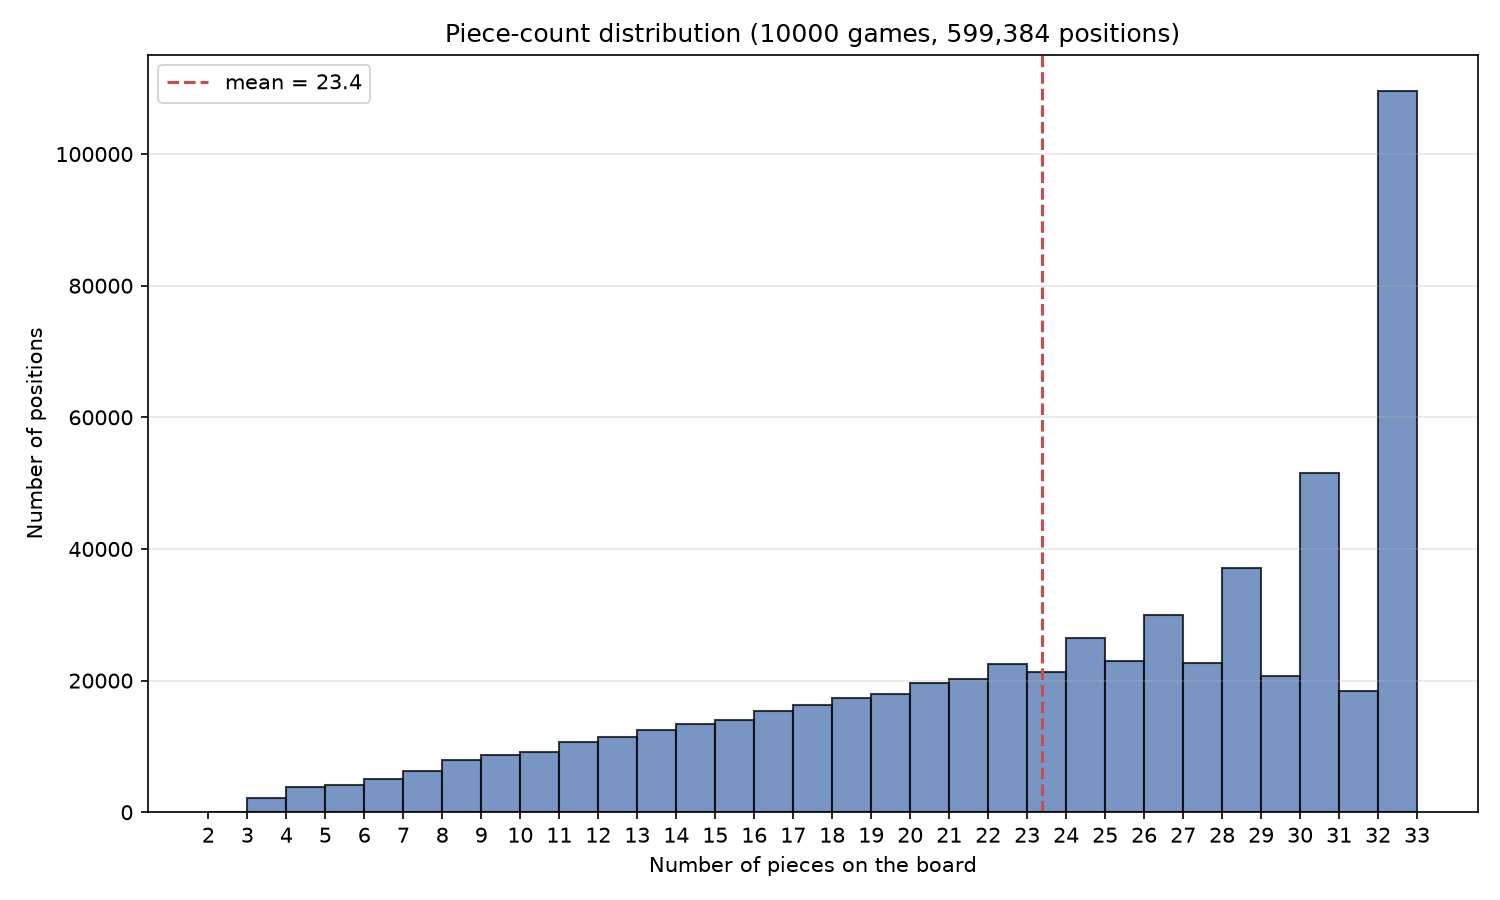
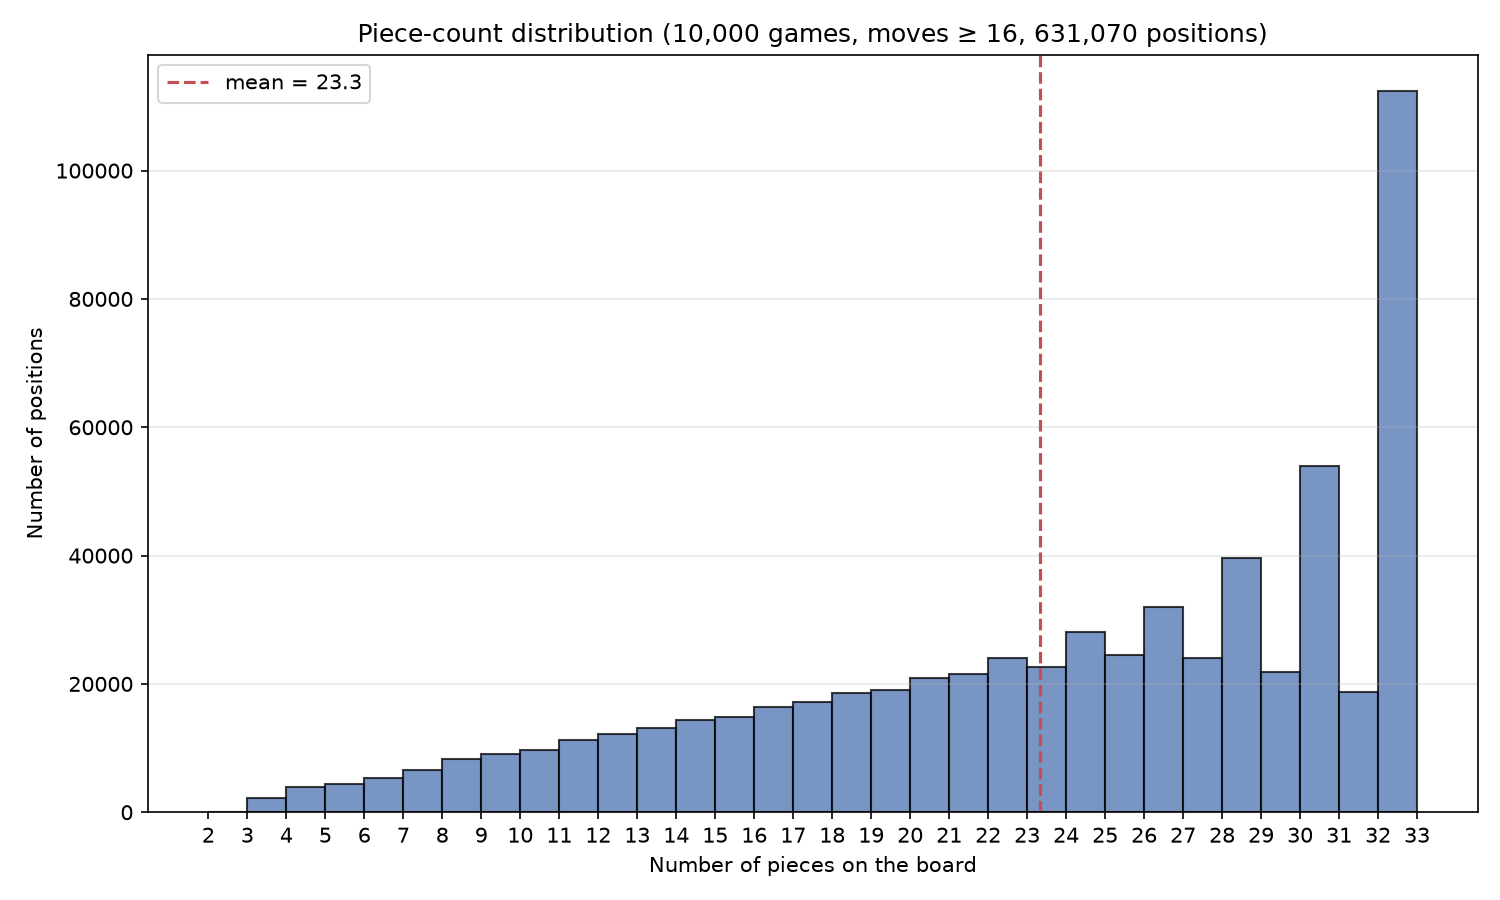
30/6 update

diff --git a/scripts/plot_piece_count_distribution.py b/scripts/plot_piece_count_distribution.py
@@ -11,40 +11,59 @@ import pandas as pd
 from tinymlinternship.config.settings import LICHESS_CSV, PROJECT_ROOT
 
 
-def collect_piece_counts(csv_path: Path, max_games: int) -> list[int]:
+def collect_piece_counts(
+    csv_path: Path,
+    max_games: int,
+    min_moves: int = 0,
+) -> tuple[list[int], int]:
     counts: list[int] = []
+    games_used = 0
 
     with csv_path.open(newline="", encoding="utf-8") as f:
         reader = csv.DictReader(f)
-        for i, row in enumerate(reader):
-            if i >= max_games:
+        for row in reader:
+            if games_used >= max_games:
                 break
 
             moves_str = row.get("moves", "").strip()
             if not moves_str:
                 continue
 
+            move_list = moves_str.split()
+            if len(move_list) < min_moves:
+                continue
+
             board = chess.Board()
             counts.append(len(board.piece_map()))
 
-            for san in moves_str.split():
+            for san in move_list:
                 try:
                     board.push_san(san)
                 except (chess.InvalidMoveError, chess.IllegalMoveError, ValueError):
                     break
                 counts.append(len(board.piece_map()))
 
-    return counts
+            games_used += 1
+
+    return counts, games_used
 
 
-def plot_distribution(counts: list[int], output_path: Path, max_games: int) -> None:
+def plot_distribution(
+    counts: list[int],
+    output_path: Path,
+    games_used: int,
+    min_moves: int,
+) -> None:
     fig, ax = plt.subplots(figsize=(10, 6))
 
     bins = range(min(counts), max(counts) + 2)
     ax.hist(counts, bins=bins, edgecolor="black", alpha=0.75, color="#4C72B0")
     ax.set_xlabel("Number of pieces on the board")
     ax.set_ylabel("Number of positions")
-    ax.set_title(f"Piece-count distribution ({max_games} games, {len(counts):,} positions)")
+    filter_note = f", moves ≥ {min_moves}" if min_moves else ""
+    ax.set_title(
+        f"Piece-count distribution ({games_used:,} games{filter_note}, {len(counts):,} positions)"
+    )
     ax.set_xticks(list(bins))
     ax.grid(axis="y", alpha=0.3)
 
@@ -72,27 +91,38 @@ def main() -> None:
     parser = argparse.ArgumentParser(description=__doc__)
     parser.add_argument("--max-games", type=int, default=1000)
     parser.add_argument(
+        "--min-moves",
+        type=int,
+        default=0,
+        help="Skip games with fewer than this many moves (plies in the moves column).",
+    )
+    parser.add_argument(
         "--output",
         type=Path,
-        default=PROJECT_ROOT / "piece_count_distribution.png",
+        default=PROJECT_ROOT / "plots" / "piece_count_distribution.png",
     )
     parser.add_argument(
         "--excel-output",
         type=Path,
-        default=PROJECT_ROOT / "piece_count_distribution.xlsx",
+        default=PROJECT_ROOT / "excel" / "piece_count_distribution.xlsx",
     )
     args = parser.parse_args()
 
     if not LICHESS_CSV.exists():
         raise FileNotFoundError(f"Dataset not found: {LICHESS_CSV}. Run scripts/download_data.py first.")
 
-    counts = collect_piece_counts(LICHESS_CSV, args.max_games)
+    counts, games_used = collect_piece_counts(
+        LICHESS_CSV, args.max_games, min_moves=args.min_moves
+    )
     if not counts:
-        raise RuntimeError("No positions collected — check the dataset format.")
+        raise RuntimeError("No positions collected — check the dataset format or min-moves filter.")
 
-    plot_distribution(counts, args.output, args.max_games)
+    args.output.parent.mkdir(parents=True, exist_ok=True)
+    args.excel_output.parent.mkdir(parents=True, exist_ok=True)
+
+    plot_distribution(counts, args.output, games_used, args.min_moves)
     export_to_excel(counts, args.excel_output)
-    print(f"Collected {len(counts):,} positions from {args.max_games} games")
+    print(f"Collected {len(counts):,} positions from {games_used:,} games (min_moves={args.min_moves})")
     print(f"Piece count range: {min(counts)} – {max(counts)}")
     print(f"Saved plot to: {args.output}")
     print(f"Saved Excel to: {args.excel_output}")

diff --git a/2026-06-30.md b/2026-06-30.md
@@ -1,0 +1,83 @@
+# 2026-06-30
+
+## The Plan for Today
+
+**Focus:** Finalize the SARDINE engine blueprint — lock component choices, answer open design questions, and document the full architecture for the Wio Terminal chess bot.
+
+1. **Compile Decision Log** — Select one option per component in [NOTES/SARDINE design options.md](NOTES/SARDINE%20design%20options.md).
+2. **Resolve design questions** — Target Elo, time budget, MCTS feasibility, dual-head vs separate nets.
+3. **Validate coherence** — Cross-check choices against Wio constraints ([Performance.md](NOTES/Performance.md)) and FIDE Challenge lessons.
+4. **Brand & document** — Add SARDINE logo; keep blueprint as single source of truth for implementation.
+
+---
+
+## Execution Log
+
+### SARDINE blueprint locked
+
+Full spec: [NOTES/SARDINE 🐟.md](NOTES/SARDINE%20🐟.md) · [design options](NOTES/SARDINE%20design%20options.md)
+
+**SARDINE** = *Small Artificial RAM-restricted Deep Intelligent Neural Engine* — modular chess engine for Wio Terminal, maximizing Elo per byte under 192 KB RAM / ~508 KB flash.
+
+#### Locked component choices
+
+| Layer | Choice | Summary |
+|-------|--------|---------|
+| Runtime | **R-A** | Pure C engine core (Cfish-style); minimal C++ only for TFT/Serial if needed |
+| Features | **F-B** | Pruned 704 inputs (impossible pawn ranks + mirrored king coords) |
+| Evaluation | **E-E (E-C)** | Bucketed micro NNUE `768→16→1`, 8 output weight sets |
+| Buckets | **B-C** | Balanced piece-count buckets (equalized training mass per bucket) |
+| Policy v1 | **P-A** | Search-only; upgrade to **P-B** (history heuristics) later |
+| Updates | **U-B → U-C** | Incremental add/sub accumulators; lazy updates when TT is live |
+| Geometry | **K-A, K-B, K-C** | King mirroring + zero impossible weights + magnitude pruning |
+| Quantization | **Q-A** | int8 weights, int16 accumulators, CReLU |
+| Search | **S-B → S-C → S-D** | Quiescence → LMR+NMP → iterative deepening |
+| Flash | **M-F2** | ~10% flash for weights; rest for search code + tables |
+| RAM | **M-R1** | TT-dominant (128–160 KB) |
+| Move order | **O-A → O-B** | MVV-LVA first; killer moves when depth > 4 |
+| Training data | **D-B + D-D** | Lc0 games + bucket-stratified resampling |
+| Training pipe | **T-B + T-D** | nnue-pytorch + SPSA post-hoc tuning |
+| I/O | **I-B** | TFT + Serial; hardcoded FEN for now |
+
+#### Design targets (Details)
+
+| Parameter | Target |
+|-----------|--------|
+| Elo | **≥ 2000** (FIDE Kaggle bots ~2500 Elo at 5 MiB RAM) |
+| Move time | Best move within **~1 s** (no hard time cap) |
+| MCTS | Feasible (1–50 ms/eval on device); **deferred to v2** — v1 uses alpha-beta |
+| Net architecture | **Separate nets** — NNUE for eval + distinct net for search guidance later |
+
+#### Architecture flow
+
+```
+FEN → F-B encoder → NNUE accumulators (U-B) → E-E eval (B-C bucket)
+                         ↑
+              alpha-beta search (S-B→C→D) ← TT (M-R1) ← move order (O-A)
+                         ↓
+                    best move → I-B (TFT/Serial)
+```
+
+#### Custom hybrid (vs presets)
+
+Closest preset: **Sardine FIDE** / **Sardine NNUE**, but custom mix:
+- FIDE-style memory (**M-R1**) + micro bucketed NNUE (**E-E**) + v1 search ladder (**P-A**, **S-B**)
+- Pure **R-A** C core (not M-R2 eval-dominant RAM split)
+
+#### Still open
+
+- [ ] Port to C (**R-A**) before or after first playable search in C++?
+
+#### Supporting work today
+
+- Piece-count distribution analysis (`piece_count_distribution.xlsx`, `_10k.xlsx`) informed **B-C** bucket design
+- Decision log reviewed and corrected for internal consistency (E-E vs E-F, Q-A vs Q-D, phased search)
+
+#### Next implementation steps (from SARDINE §15)
+
+1. Feature encoder **F-B** on PC + device parity
+2. Train bucketed micro NNUE (**T-B**, **D-B + D-D**) → int8 export
+3. Incremental accumulators (**U-B**) on device
+4. Search skeleton **S-B** on PC, port to C
+5. TT + **S-C**/**S-D**; SPSA tuning (**T-D**)
+6. Elo gate vs ≥2000 baseline

diff --git a/NOTES/SARDINE 🐟.md b/NOTES/SARDINE 🐟.md
@@ -6,7 +6,7 @@ Small Artificial RAM-restricted Deep Intelligent Neural Engine
 
 ![SARDINE logo](../images/SARDINE-logo-dark-small.png)
 
-Chess engine for the **Wio Terminal** — neural evaluation + alpha-beta search, maximizing **Elo per byte** under 192 KB RAM / ~508 KB flash.
+Chess engine for the **Wio Terminal** — neural evaluation + alpha-beta search, maximizing **Elo per byte** under 192 KB RAM / ~500 KB flash.
 
 *Locked 2026-06-30. Full option catalogue: [SARDINE design options.md](SARDINE%20design%20options.md).*
 
@@ -51,34 +51,54 @@ FEN → pruned 704 features → NNUE accumulators → bucketed eval (8 piece-cou
 
 Pure **C** engine core (Cfish-style). Minimal C++ only for TFT/Serial if the Arduino toolchain requires it.
 
+---
+
 ### Input features — F-B
 
 **Pruned 704** features: zero impossible pawn ranks + mirrored king coordinates. HalfKP deferred.
 
+---
+
 ### Evaluation — E-E (E-C)
 
 **Bucketed micro NNUE:** `768 → 16 → 1`, dual-perspective, **8 output weight sets** selected by piece-count bucket.
+
+---
 
 ### Output buckets — B-C
 
 Balanced training buckets (equalized position mass per bucket):
 
 | Bucket | Piece count |
-|--------|-------------|
-| 0 | 2–12 |
-| 1 | 13–17 |
-| 2 | 18–21 |
-| 3 | 22–24 |
-| 4 | 25–27 |
-| 5 | 28–29 |
-| 6 | 30–31 |
-| 7 | 32 |
+| ------ | ----------- |
+| 0      | <12         |
+| 1      | 13–17       |
+| 2      | 18–21       |
+| 3      | 22–24       |
+| 4      | 25–27       |
+| 5      | 28–29       |
+| 6      | 30–31       |
+| 7      | 32          |
 
 Informed by `piece_count_distribution_10k.xlsx` (~48% of positions have 28–32 pieces).
+
+> Alternatively, we can try to find a completely different way to bucket positions. For example, the MoE approach could benefit from dividing the positions in buckets by leveraging the metrics:
+- opening (28+ pieces)
+- middlegame
+- endgame (<=12 pieces, including kings)
+- bishop pair
+- rook pair
+- queens
+- ...
+> How can we optimize for the best Experts?
+
+---
 
 ### Policy — P-A (v1)
 
 **Search-only** for v1. Upgrade to history heuristics (**P-B**) once tables are in.
+
+---
 
 ### Incremental updates — U-B → U-C
 
@@ -86,21 +106,29 @@ Informed by `piece_count_distribution_10k.xlsx` (~48% of positions have 28–32 
 2. **Lazy updates** when TT cutoffs make eval skippable
 3. Copy-make + fused add/sub optional later
 
+---
+
 ### Geometric optimizations — K-A, K-B, K-C
 
 - Horizontal king mirroring
 - Hard-zero weights for impossible states (pawns on rank 1/8)
 - Magnitude pruning (~80% sparsity post-training)
 
+---
+
 ### Quantization — Q-A
 
 **int8** weights, **int16** accumulators, **CReLU** activation.
+
+---
 
 ### Search — S-B → S-C → S-D
 
 1. Alpha-beta + **quiescence**
 2. **LMR + null-move pruning**
 3. **Iterative deepening** once TT is stable
+
+---
 
 ### Memory
 
@@ -109,9 +137,13 @@ Informed by `piece_count_distribution_10k.xlsx` (~48% of positions have 28–32 
 | **Flash (M-F2)** | Balanced | ~10% weights; rest search code + tables |
 | **RAM (M-R1)** | TT-dominant | TT **128–160 KB**; accumulators + stack ~16 KB; scratch ~16 KB |
 
+---
+
 ### Move ordering — O-A → O-B
 
 **MVV-LVA + captures** for v1; **killer moves** when search depth > 4.
+
+---
 
 ### Training data — D-B + D-D
 
@@ -119,10 +151,14 @@ Informed by `piece_count_distribution_10k.xlsx` (~48% of positions have 28–32 
 - **Bucket-stratified** resampling for B-C buckets
 - Stockfish self-play labels optional augment
 
+---
+
 ### Training pipeline — T-B + T-D
 
 - **nnue-pytorch** for network training
 - **SPSA** post-hoc for search/heuristic tuning
+
+---
 
 ### I/O — I-B
 

diff --git a/README.md b/README.md
@@ -8,6 +8,7 @@
 - [Thesis repo](https://github.com/Omega97/world-models-thesis)
 - [Internship repo](https://github.com/Omega97/TinyML_Internship)
 - Modelli online: [NOTES/Models.md](NOTES/Models.md)
+- Engine blueprint: [NOTES/SARDINE 🐟.md](NOTES/SARDINE%20🐟.md) · [design options](NOTES/SARDINE%20design%20options.md)
 - Kaggle challenge: [FIDE & Google Efficient Chess AI Challenge](NOTES/FIDE%20%26%20Google%20Efficient%20Chess%20AI%20Challenge.md)
 - Dettagli progetto: [PROJECT.md](PROJECT.md)
 - Note progetto: [NOTES/notes.md](_notes.md)
@@ -164,14 +165,20 @@ Meeting all'ufficio del prof. Zennaro
 ## 29 Giugno - 5 Luglio
 
 - **Catalogo modelli** — consolidata la ricerca HF in [NOTES/Models.md](NOTES/Models.md): confronto per famiglia (Dense/Conv, ResNet, Transformer, NNUE, Lc0 edge) con parametri, file size e fattibilità su Wio. Conclusione: i modelli HF (8–100M params) sono fuori budget; NNUE e dual-head custom restano le direzioni più promettenti.
-- **Transformer compatto** — definita in [NOTES/chess transformer.md](NOTES/chess%20transformer.md) un'architettura policy+value a **~210K parametri** (input `24×8×8`, 2 blocchi transformer, policy 2048 + value tanh) — ~165× più piccola di ChessBot (34.7M), potenzialmente deployabile in int8 su Wio (~210 KB flash).
-- **FIDE & Google Challenge** — analizzate in [NOTES/FIDE & Google Efficient Chess AI Challenge.md](NOTES/FIDE%20%26%20Google%20Efficient%20Chess%20AI%20Challenge.md) le soluzioni top sotto vincoli estremi (5 MiB RAM, binario ≤ 64 KiB): micro-NNUE con king mirroring e geometric pruning (1° Cfish, 45 KB Approvers), quantizzazione int8, trade-off TT vs rete. Tattiche riutilizzabili: zero weights su stati impossibili, SPSA tuning (+30 Elo senza cambiare architettura).
-- **Sintesi** — confronto Wio vs challenge vs transformer custom; prossimi passi: dual-head sul family nano→huge, prototipo transformer ~210K, geometric pruning, valutazione NNUE incrementale. Daily note: [2026-06-29.md](2026-06-29.md).
-- Nome progetto: 
-	- **S**mall **A**rtificial **R**AM-restricted **D**eep **I**ntelligent **N**eural **E**ngine
+- **Transformer compatto** — definita in [NOTES/chess transformer.md](NOTES/chess%20transformer.md) un'architettura policy+value a **~210K parametri** (input `24×8×8`, 2 blocchi transformer, policy 2048 + value tanh) — ~165× più piccola di ChessBot (34.7M).
+- **FIDE & Google Challenge** — analizzate le soluzioni top sotto vincoli estremi (5 MiB RAM, binario ≤ 64 KiB): micro-NNUE, king mirroring, geometric pruning, SPSA tuning. Note: [NOTES/FIDE & Google Efficient Chess AI Challenge.md](NOTES/FIDE%20%26%20Google%20Efficient%20Chess%20AI%20Challenge.md).
+- **NNUE deep-dive** — nota dedicata su architettura, aggiornamenti incrementali e quantizzazione: [NOTES/NNUE.md](NOTES/NNUE.md).
+- **Analisi dataset** — distribuzione piece-count su 1k e 10k partite Lichess (`piece_count_distribution.xlsx`, `piece_count_distribution_10k.xlsx`); usata per progettare i bucket bilanciati del training.
+- **SARDINE blueprint** — decisioni bloccate in [NOTES/SARDINE 🐟.md](NOTES/SARDINE%20🐟.md); catalogo opzioni in [SARDINE design options.md](NOTES/SARDINE%20design%20options.md). Nome: **S**mall **A**rtificial **R**AM-restricted **D**eep **I**ntelligent **N**eural **E**ngine.
+  - Eval: bucketed micro NNUE `768→16→1` (8 output buckets per piece count)
+  - Runtime: C puro (Cfish-style); search alpha-beta con TT-dominant in RAM
+  - Training: Lc0 + bucket-stratified resampling; nnue-pytorch + SPSA
+  - Target: **≥ 2000 Elo**, mossa pronta in **~1 s**
+  - Daily notes: [2026-06-29.md](2026-06-29.md), [2026-06-30.md](2026-06-30.md)
 
 #### Repo work
-- Notes: [NOTES/Models.md](NOTES/Models.md), [NOTES/chess transformer.md](NOTES/chess%20transformer.md), [NOTES/FIDE & Google Efficient Chess AI Challenge.md](NOTES/FIDE%20%26%20Google%20Efficient%20Chess%20AI%20Challenge.md)
+- Notes: [NOTES/Models.md](NOTES/Models.md), [NOTES/chess transformer.md](NOTES/chess%20transformer.md), [NOTES/NNUE.md](NOTES/NNUE.md), [NOTES/Ideas 💡.md](NOTES/Ideas%20💡.md), [NOTES/SARDINE 🐟.md](NOTES/SARDINE%20🐟.md), [NOTES/FIDE & Google Efficient Chess AI Challenge.md](NOTES/FIDE%20%26%20Google%20Efficient%20Chess%20AI%20Challenge.md)
+- Data analysis: [scripts/plot_piece_count_distribution.py](scripts/plot_piece_count_distribution.py) → `piece_count_distribution.xlsx`, `piece_count_distribution_10k.xlsx`
 
 ---
 